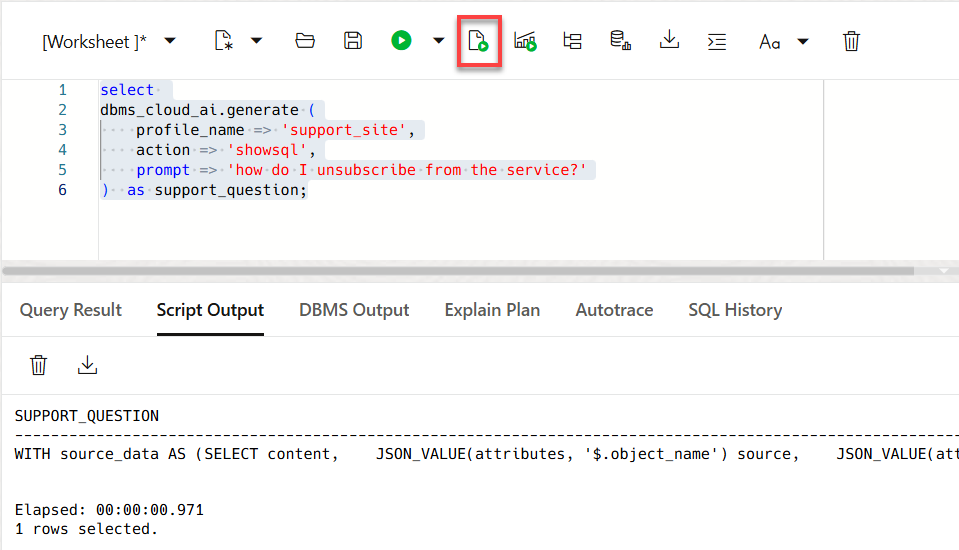
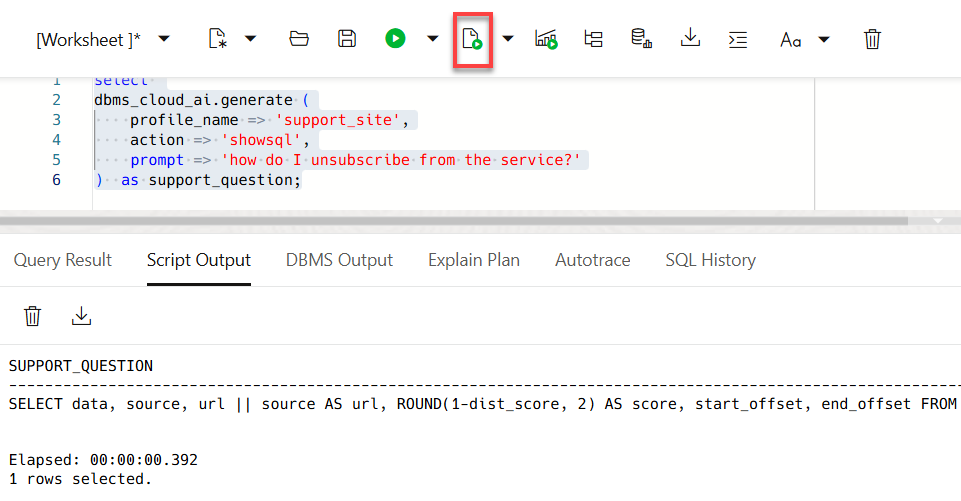
corrected a query that was failing: Develop AI RAG Apps with Autonomous Database Select AI (#402)
* updates

* restored sandbox manifest

* Update setup-environment.md

* updates after CloudWorld

* final updates to ai workshop (also new labs 4 and 5)

* marty's feedback

* incorporated feedback

* minor PR edits by Sarah

* removed steps 7 & 8 Lab 2 > Task 3 per Alexey

The customer asked to remove this as it's not a requirement for the bucket to be public.

* more changes

* more changes per Alexey

* Update load-os-data-public.md

* Quarterly QA

I added a new step per the PM's request in the Data Sharing PL/SQL workshop. I also made a minor edit (removed space) in the Data Lake workshop.

* more updates

* Quarterly QA changes

* Update consume-share.md

* minor edit based on workshop user

* quarterly qa November 2023

* Added new videos to the workshop

Replaced 3 old silent videos with new ones. Added two new videos.

* Adding important notes to the two data sharing workshops

Per the PM's request.

* folder structure only  push to production

This push and the PR later is to make sure the folder structure is in the production repo before I start development. Only 1 .md file and the workshops folder.

* typos

* cloud links workshop

* UPDATES

* Update query-view.png

* update

* minor updates to chat ai workshop (Fork)

* test clones

* test pr

* Alexey's feedback

* Update data-sharing-diagram.png

* sarah's edits

* changes to Data Load UI

* removed script causing ML issue

* Update load-local-data.md

* updates: deprecated procedure and new code
[…]

diff --git a/shared/adb-develop-rag-apps/select-ai-api/select-ai-api.md b/shared/adb-develop-rag-apps/select-ai-api/select-ai-api.md
@@ -67,13 +67,11 @@ Let's look at some examples of using Select AI with the available actions.
 
     ```
     <copy>
-    select json_serialize(
-    dbms_cloud_ai.generate (
+    select dbms_cloud_ai.generate (
         profile_name => 'support_site',
         action => 'runsql',
         prompt => 'how do I unsubscribe from the service?'
-    ) PRETTY
-    ) as support_question;
+    );
     </copy>
     ```
 
@@ -107,7 +105,7 @@ You may now proceed to the next lab.
   * **Authors:**
     * Marty Gubar, Product Management
     * Lauran K. Serhal, Consulting User Assistance Developer
-  * **Last Updated By/Date:** Lauran K. Serhal, February 2025
+  * **Last Updated By/Date:** Lauran K. Serhal, March 2025
 
 Data about movies in this workshop were sourced from **Wikipedia**.
 
